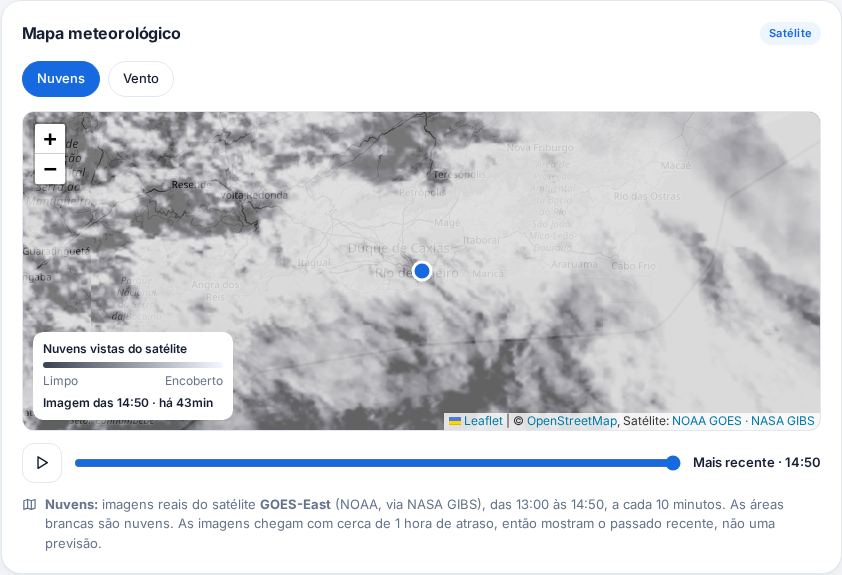
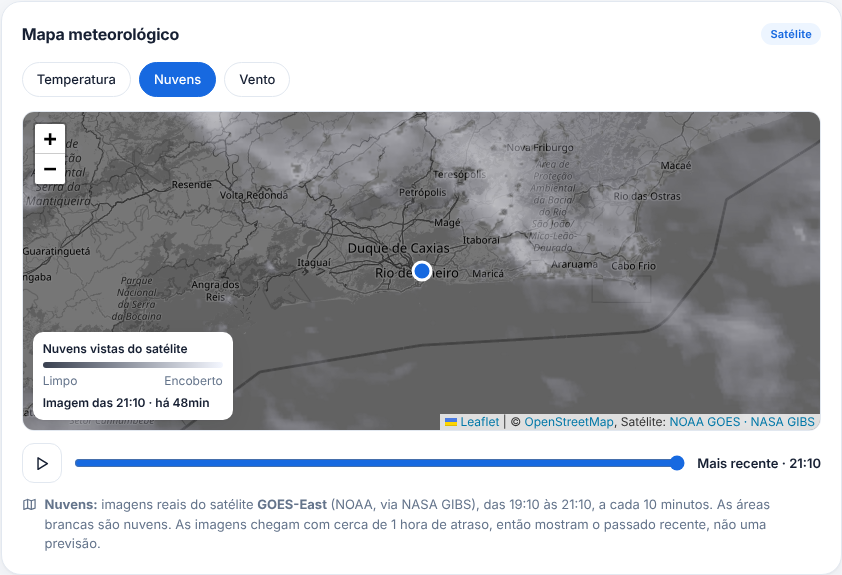
Atualiza os prints do mapa no README com a camada Temperatura
- Novo print da Temperatura (Rio de Janeiro, modo claro, previsão de
  amanhã às 15h) com a leitura de um ponto na serra.
- Prints do Vento e das Nuvens tirados de novo, já com o botão
  Temperatura entre as camadas.

Claude-Session: https://claude.ai/code/session_016B33VCUmdfFRFeAmJsYvNz

diff --git a/README.md b/README.md
@@ -26,6 +26,10 @@ Tem duas formas de usar: no terminal e num painel web completo.
 
 ### Mapa com temperatura, vento e nuvens
 
+**Temperatura (modo claro)**
+
+![Mapa do Rio de Janeiro no modo claro com o mapa de calor da temperatura prevista: a Baixada em laranja e as serras em amarelo e verde, mais frias pela altitude](docs/mapa-temperatura.png)
+
 <table>
   <tr>
     <td width="50%"><strong>Vento (modo escuro)</strong><br><img src="docs/mapa-vento.png" alt="Mapa do Rio de Janeiro no modo escuro com partículas coloridas mostrando a previsão do vento"></td>
